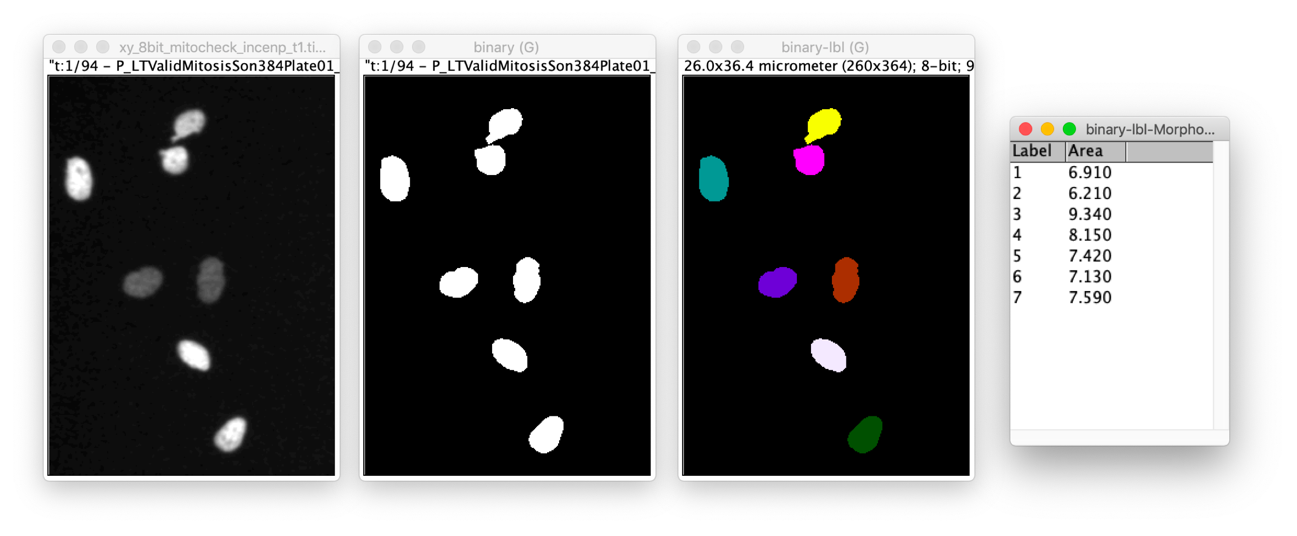
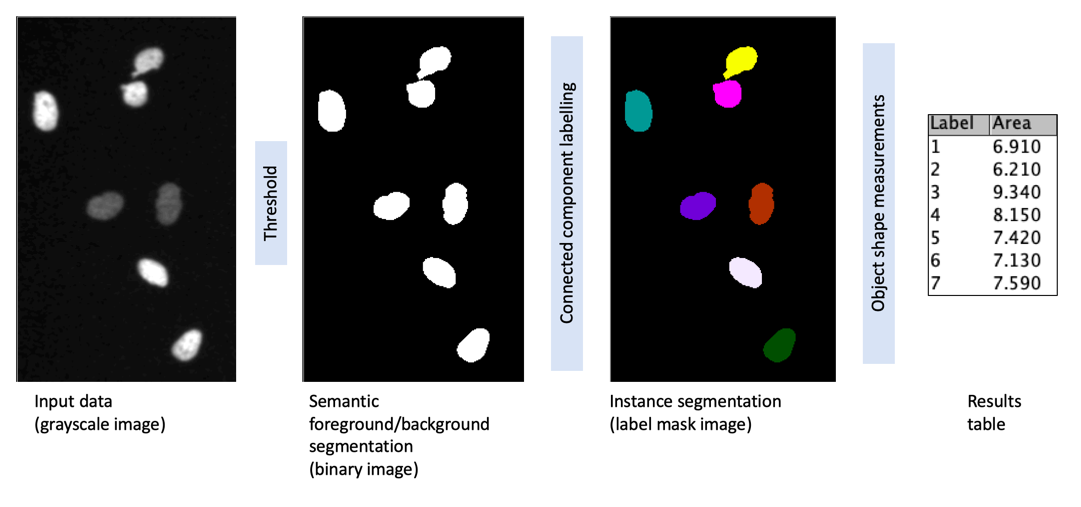
Improve basic workflow figure and title

diff --git a/_modules/workflow_segment_2d_nuclei_measure_shape.md b/_modules/workflow_segment_2d_nuclei_measure_shape.md
@@ -1,5 +1,5 @@
 ---
-title: "Basic 2D object analysis"
+title: "Nuclei segmentation and shape measurement"
 layout: module
 tags: ["workflow"]
 prerequisites:
@@ -25,7 +25,7 @@ concept_map: >
     S --> SFT["Object feature table"]
 
 figure: /figures/workflow_segment_2d_nuclei_measure_shape.png
-figure_legend: Nuclei segmentation and area measurement
+figure_legend: Workflow for nuclei segmentation and area measurement.
 
 activity_preface: |
   
